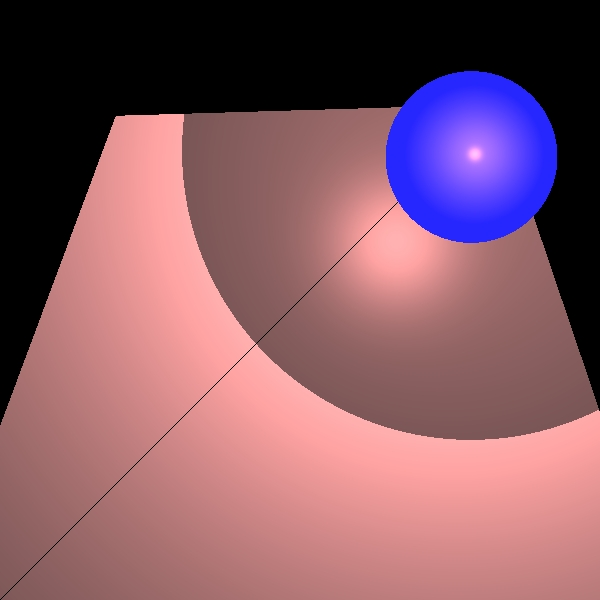
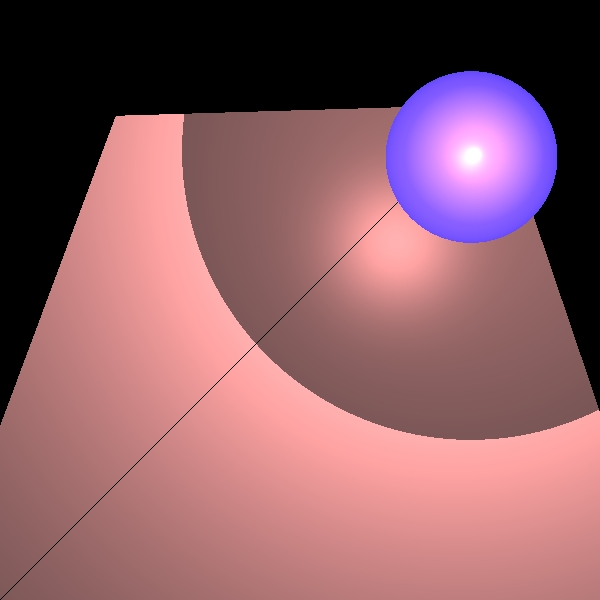
24/5 problems with transparency

Changed region(s): [[0.63, 0.12, 0.93, 0.42]]

diff --git a/src/renderer/Render.java b/src/renderer/Render.java
@@ -89,20 +89,56 @@ public class Render {
 
 
     private Color calcColor(Intersectable.GeoPoint intersection, Ray inRay, int level, double influenceLevel) {
-        if(level==0)
-            return new Color(0, 0, 0);
-        Color color = scene.getAmbientLight().getIntensity();
-        color=color.add( intersection.getGeometry().getEmission());
+        Color color = intersection.getGeometry().getEmission();
+        if (level == 1 || influenceLevel < MIN_CALC_COLOR_K) {
+            return Color.BLACK;
+        }
+        //Color color = new Color(0, 0, 0);
+        Vector v = intersection.getPoint().subtract(scene.getCamera().getP0()).normalize();
         Vector n = intersection.getGeometry().getNormal(intersection.getPoint());
-        List<LightSource> lights = scene.getLights();
+        Material material = intersection.getGeometry().getMaterial();
+        int nShininess = material.getNShininess();
+        double kd = material.getKD();
+        double ks = material.getKS();
+        double ktr = 0d;
+        if (scene.getLights() != null) {
 
-        for(LightSource light: lights){
-            Vector l = light.getL(intersection.getPoint());
-            if(transparency(light, l, n, intersection)!=0){
-                color=color.add(pokemon and xopoweHbKoBaJI Polina);
+            List<LightSource> lightSources = scene.getLights();
+            for (LightSource lightSource : lightSources) {
+                Vector l = lightSource.getL(intersection.getPoint());
+                if (sign(alignZero(n.dotProduct(l))) == sign(alignZero(n.dotProduct(v)))) {
+                    ktr = transparency(lightSource, l, n, intersection);
+                    if (ktr * influenceLevel > MIN_CALC_COLOR_K) {
+                        Color lightIntensity = lightSource.getIntensity(intersection.getPoint()).scale(ktr);
+                        color = color.add(calcDiffusive(kd, l, n, lightIntensity),
+                                calcSpecular(ks, l, n, v, nShininess, lightIntensity));
+                    }
+
+
+                }
             }
         }
+        double kr= material.getKReflectance();
+        double kkr= influenceLevel * kr;
+        if (kkr>MIN_CALC_COLOR_K){
+            Ray reflectedRay = constructReflectedRay(intersection, inRay);
+            Intersectable.GeoPoint closestPoint = findClosestPoint(reflectedRay);
+            if(closestPoint!=null)
+                color=color.add(calcColor(closestPoint, reflectedRay, level-1, kkr).scale(kr));
+        }
+        double kt = material.getKTransparency();
+        double kkt = kt*influenceLevel;
+        if(kkt>MIN_CALC_COLOR_K){
+            Ray refractedRay = constructRefractedRay(intersection, inRay);
+            Intersectable.GeoPoint refractedPoint = findClosestPoint(refractedRay);
+            if (refractedPoint!=null)
+                color = color.add(calcColor(refractedPoint, refractedRay, level-1, kkt).scale(kt));
+        }
+        return  color;
     }
+
+
+
        /* if(level==0||influenceLevel<MIN_CALC_COLOR_K)
             return Color.BLACK;
         Color color = intersection.getGeometry().getEmission();//scene.getAmbientLight().getIntensity();
@@ -366,7 +402,8 @@ public class Render {
      * @return
      */
     private Color calcColor(Intersectable.GeoPoint gp, Ray ray){
-        return calcColor(gp, ray, MAX_CALC_COLOR_LEVEL, 1d).add(scene.getAmbientLight().getIntensity());
+        //return calcColor(gp, ray, MAX_CALC_COLOR_LEVEL, 1d).add(scene.getAmbientLight().getIntensity());
+        return calcColor(gp, ray, MAX_CALC_COLOR_LEVEL, 1.0).add(scene.getAmbientLight().getIntensity());
     }
 }
 
